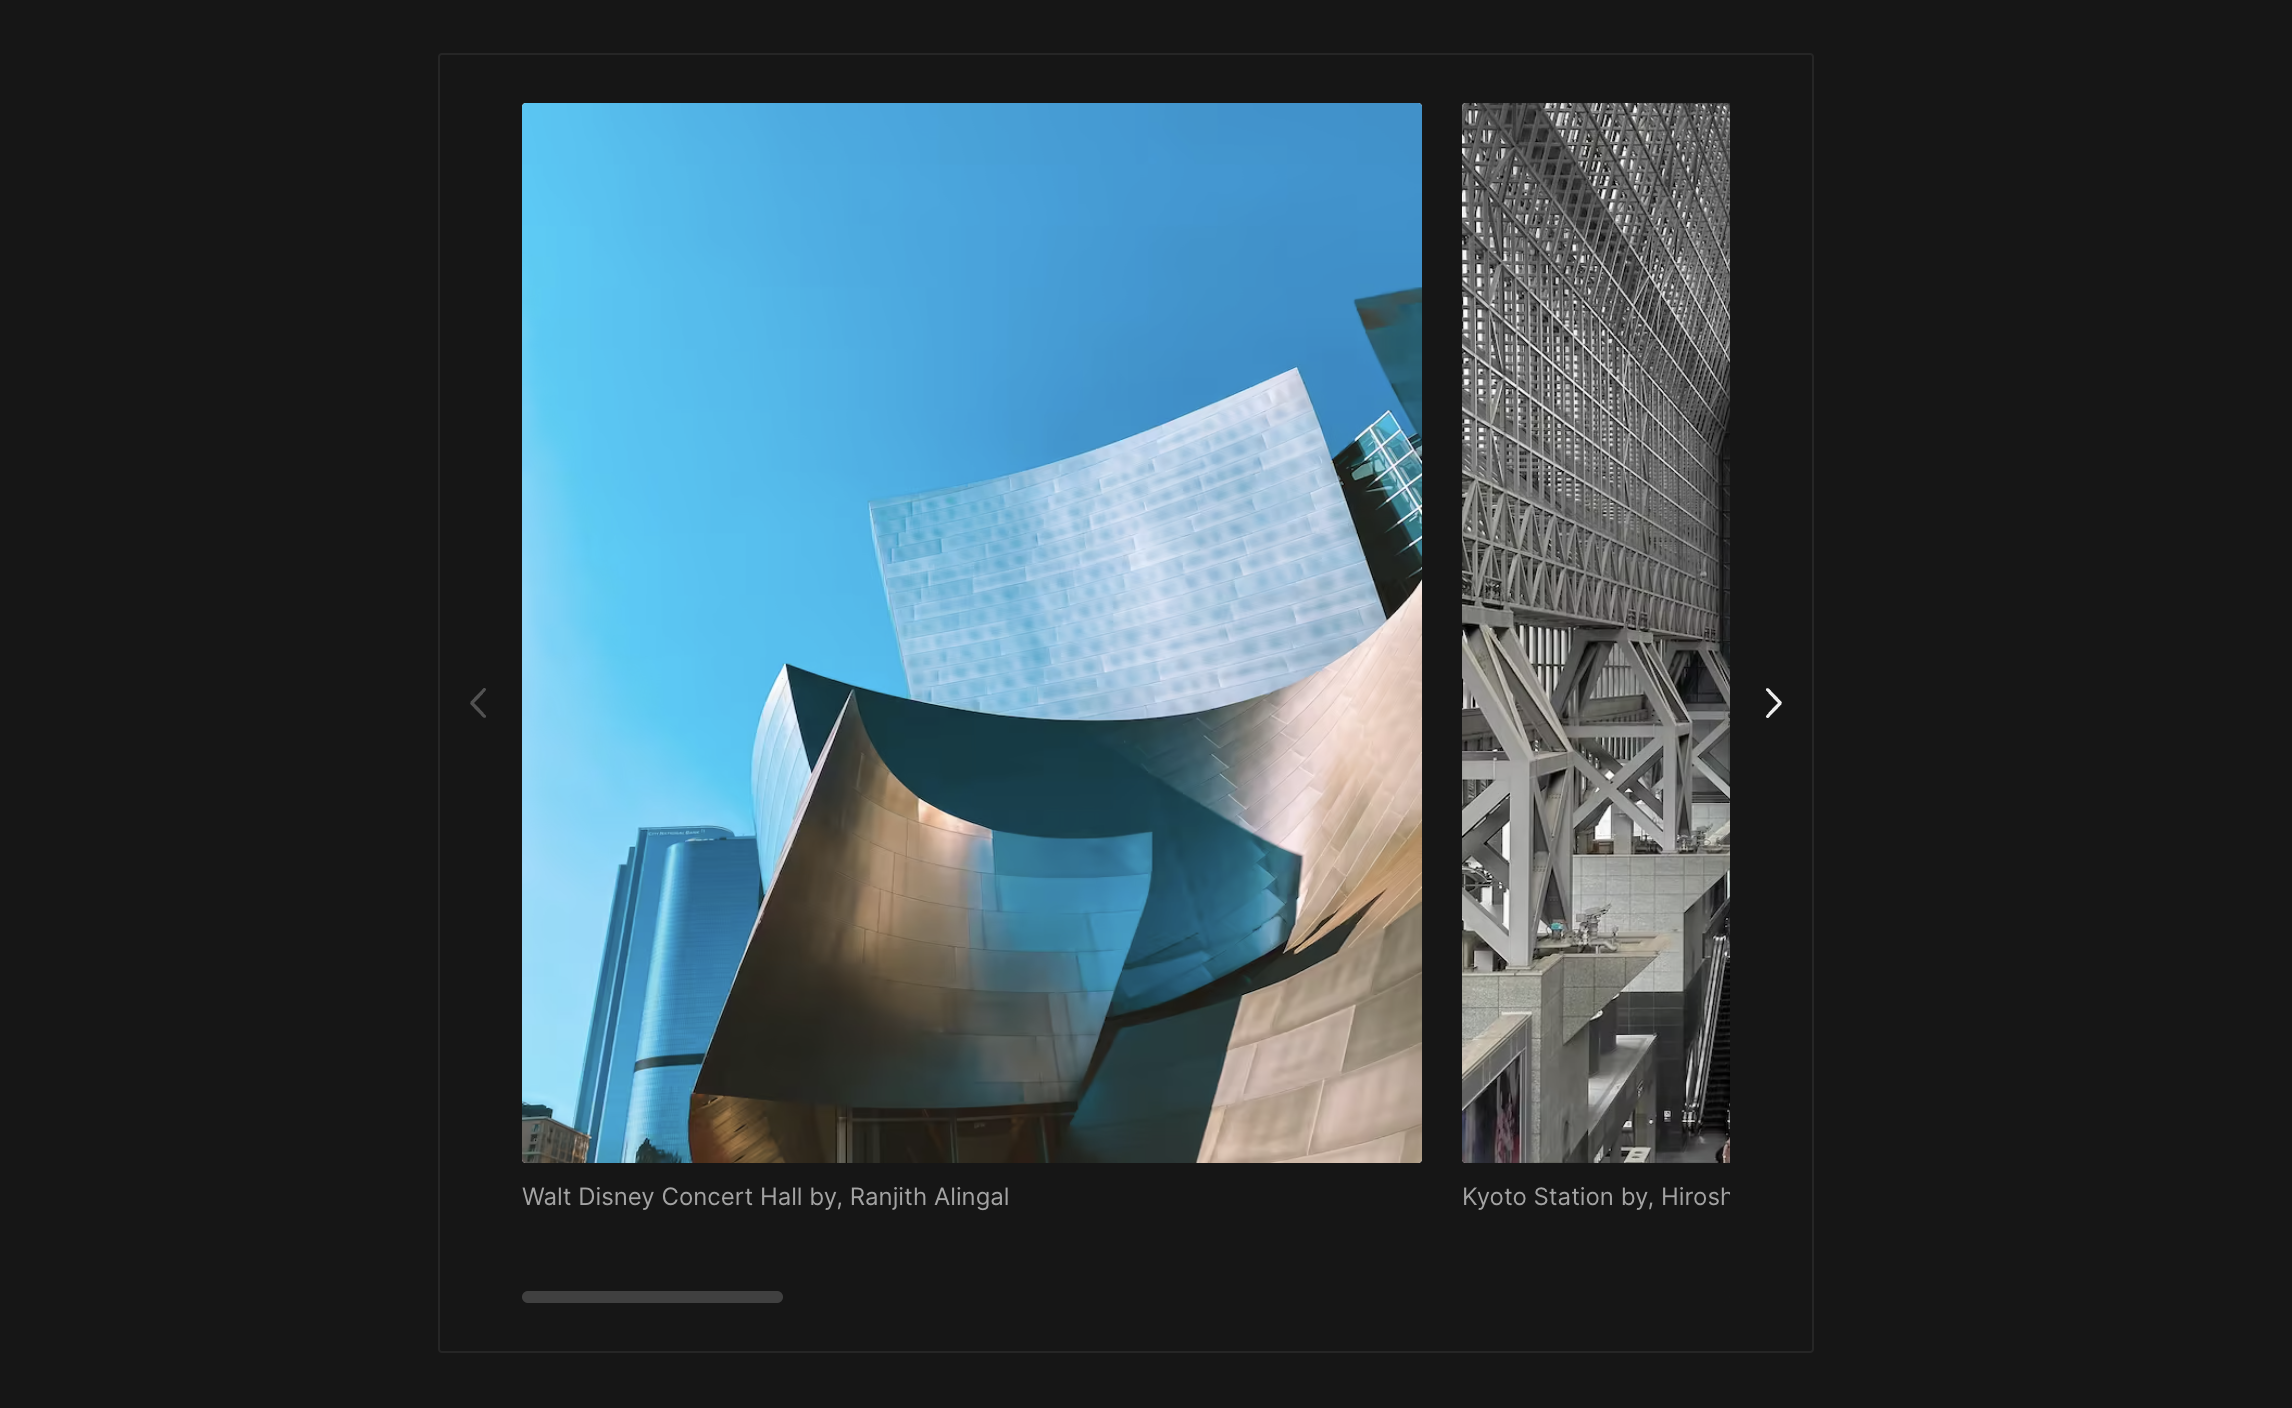
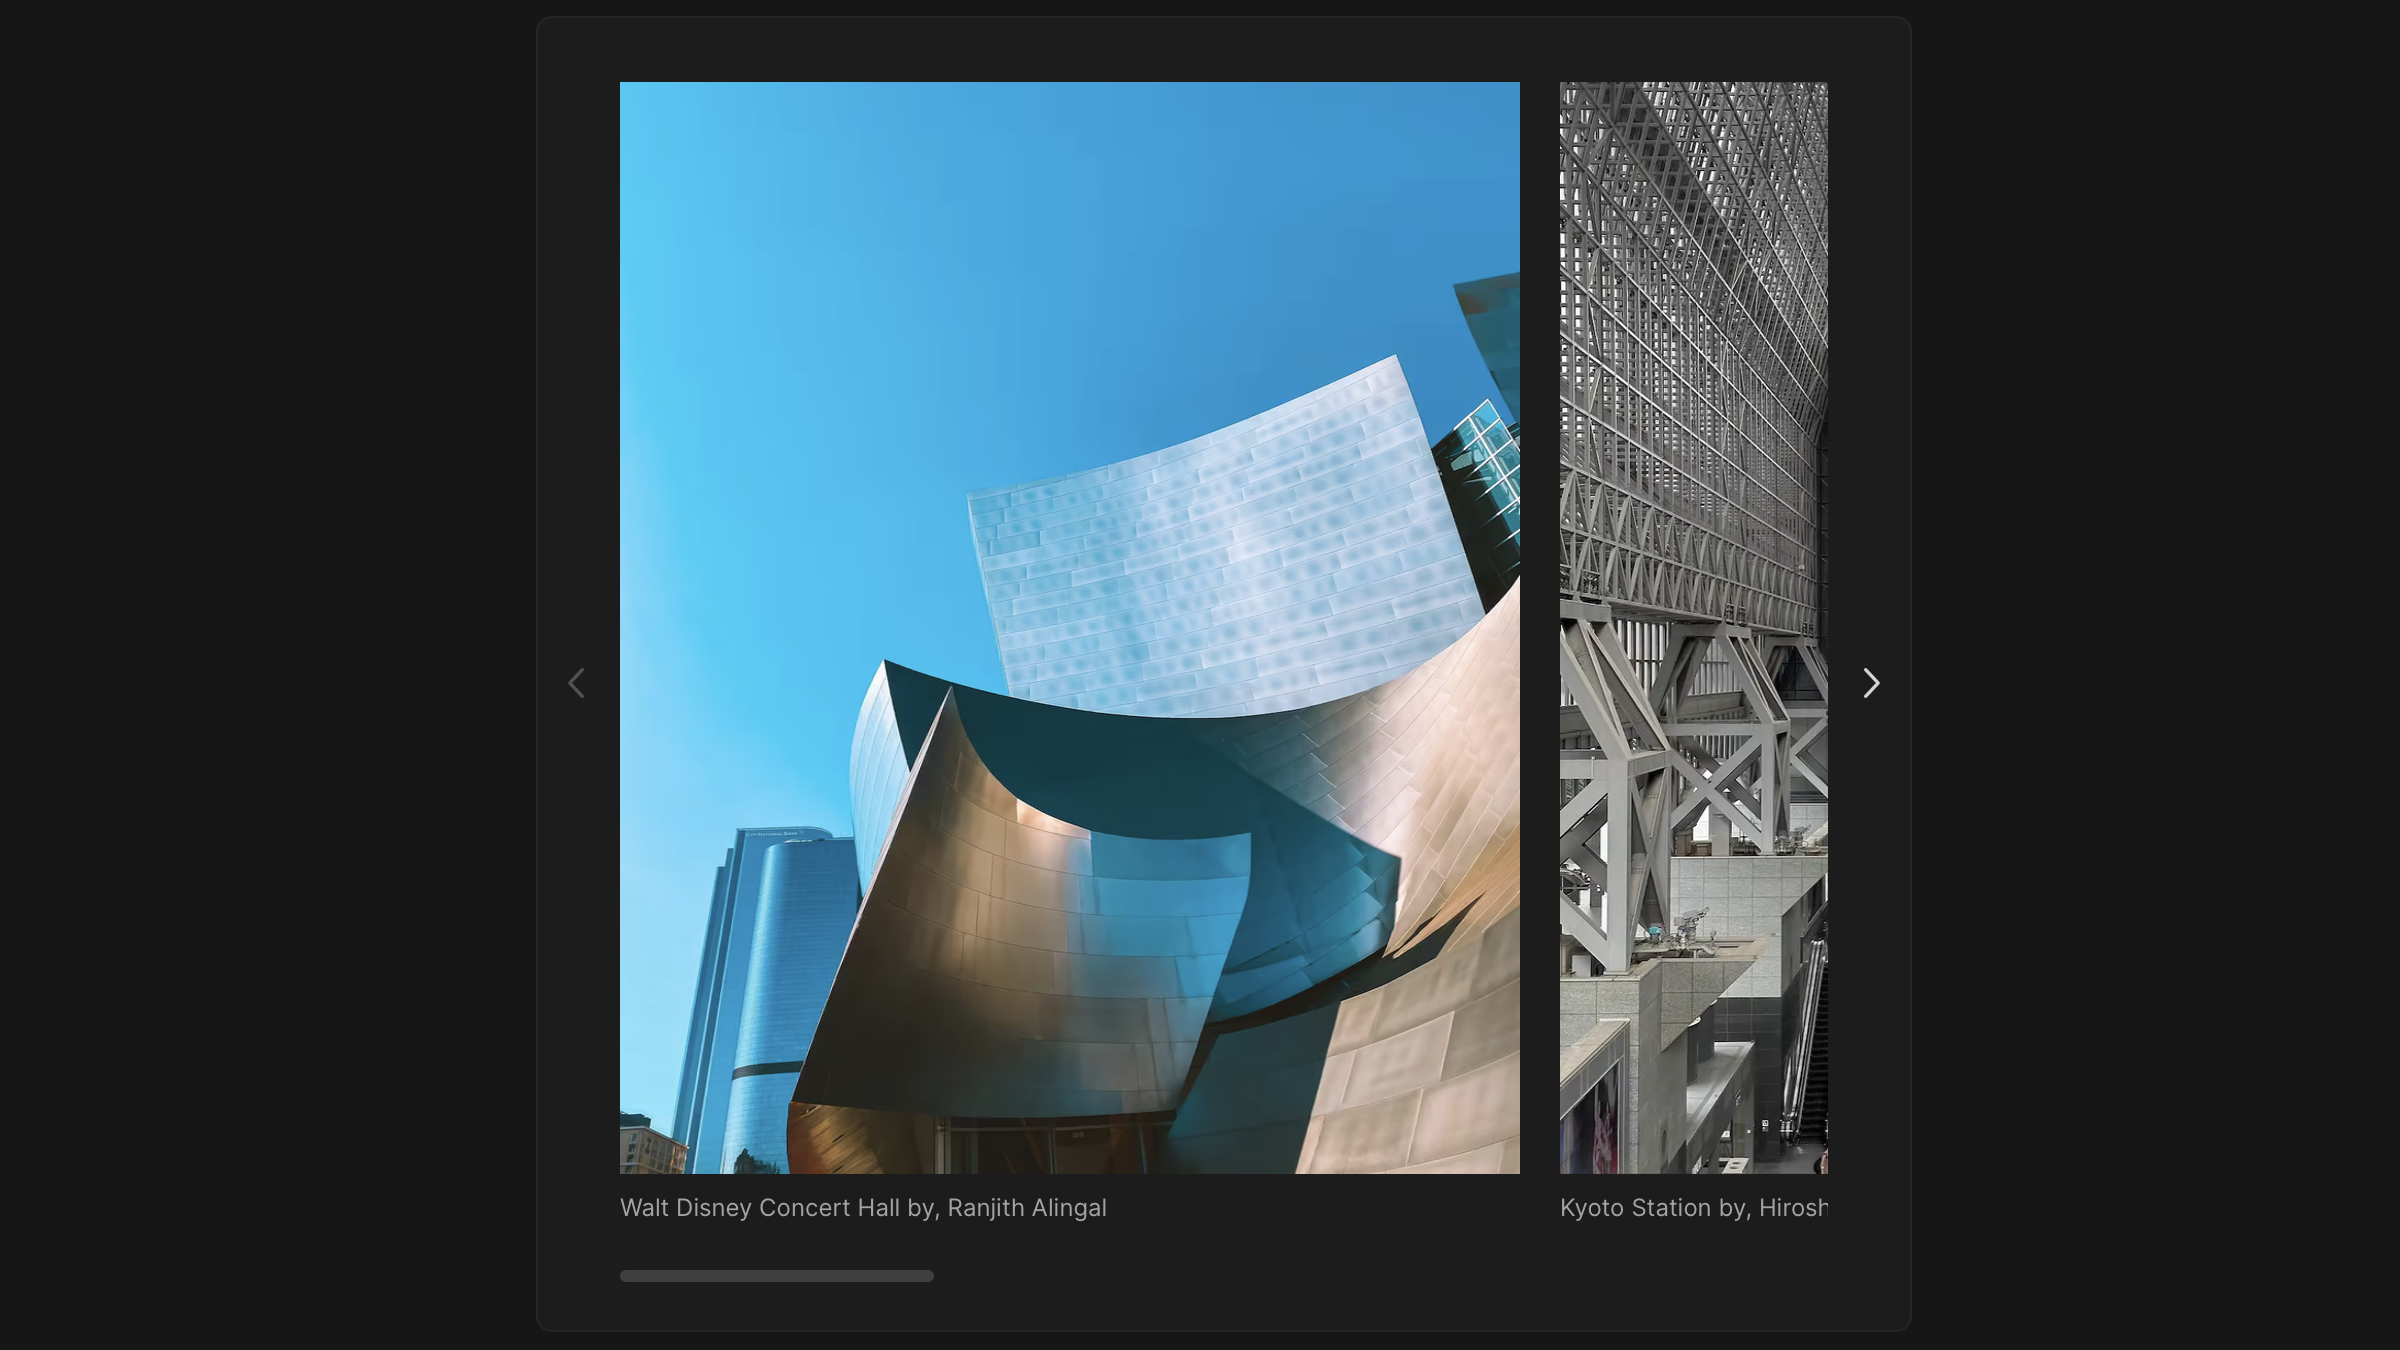
chore: details

Changed region(s): [[0.2168, 0.0622, 0.7744, 0.9644]]

diff --git a/src/app/(pages)/craft/carousel/Carousel.tsx b/src/app/(pages)/craft/carousel/Carousel.tsx
@@ -105,7 +105,7 @@ export default function Carousel() {
         {slides.map(({ title, src, alt, author, isPriority }) => (
           <li
             key={title}
-            className="relative mr-5 w-[250px] shrink-0 overscroll-x-contain rounded-sm bg-white text-center transition-all last:mr-0 md:w-[450px] md:snap-start md:snap-always lg:w-[450px] lg:snap-start lg:snap-always"
+            className="relative mr-5 w-[250px] shrink-0 overscroll-x-contain bg-white text-center transition-all last:mr-0 md:w-[450px] md:snap-start md:snap-always lg:w-[450px] lg:snap-start lg:snap-always"
           >
             <figure>
               <Image
@@ -115,7 +115,7 @@ export default function Carousel() {
                 placeholder="blur"
                 priority={isPriority}
                 sizes="(max-width: 768px) 100vw, (max-width: 1200px) 50vw, 33vw"
-                className="rounded-sm object-fill"
+                className="object-fill"
               />
               <figcaption className="absolute bottom-[-25px] left-0 w-full text-start text-xs text-[#6F6F6F] dark:text-neutral-400">{`${title} by, ${author}`}</figcaption>
             </figure>
@@ -127,7 +127,9 @@ export default function Carousel() {
           <button
             onClick={() => handleSlideChange(currentSlide + 1)}
             disabled={scrolledToEndOfSlide()}
-            className="ml-2 rounded-sm text-neutral-600 duration-150 hover:text-neutral-400 disabled:cursor-not-allowed disabled:text-neutral-300 dark:border-neutral-800 dark:text-neutral-300 dark:hover:text-neutral-400 dark:disabled:text-neutral-600"
+            className={c(
+              'ml-2 rounded-sm text-neutral-600 disabled:cursor-not-allowed dark:disabled:text-neutral-600 disabled:text-neutral-300 dark:border-neutral-800 dark:text-neutral-300 duration-150 hover:text-neutral-400 dark:hover:text-neutral-400'
+            )}
           >
             <ChevronRightIcon width={25} height={25} aria-label="Right chevron icon" />
             <span className="sr-only">Next slide</span>
